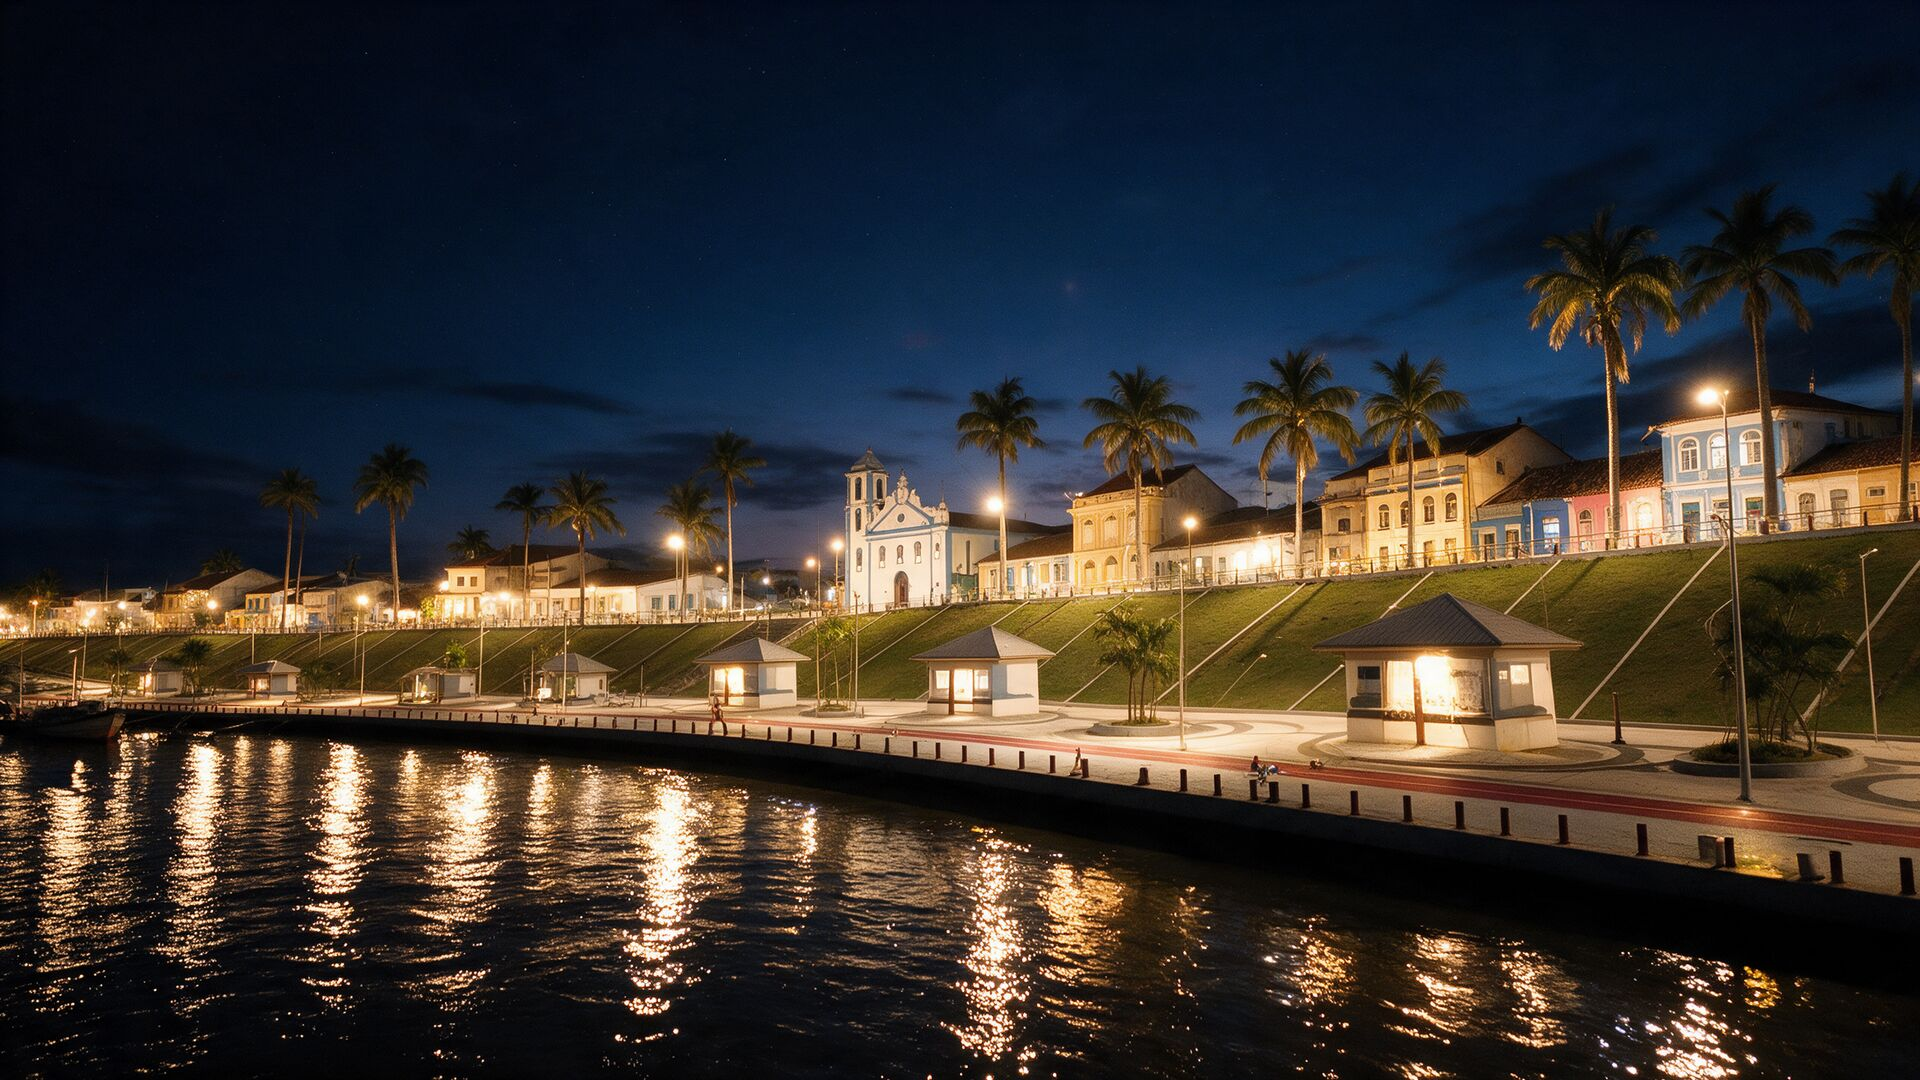
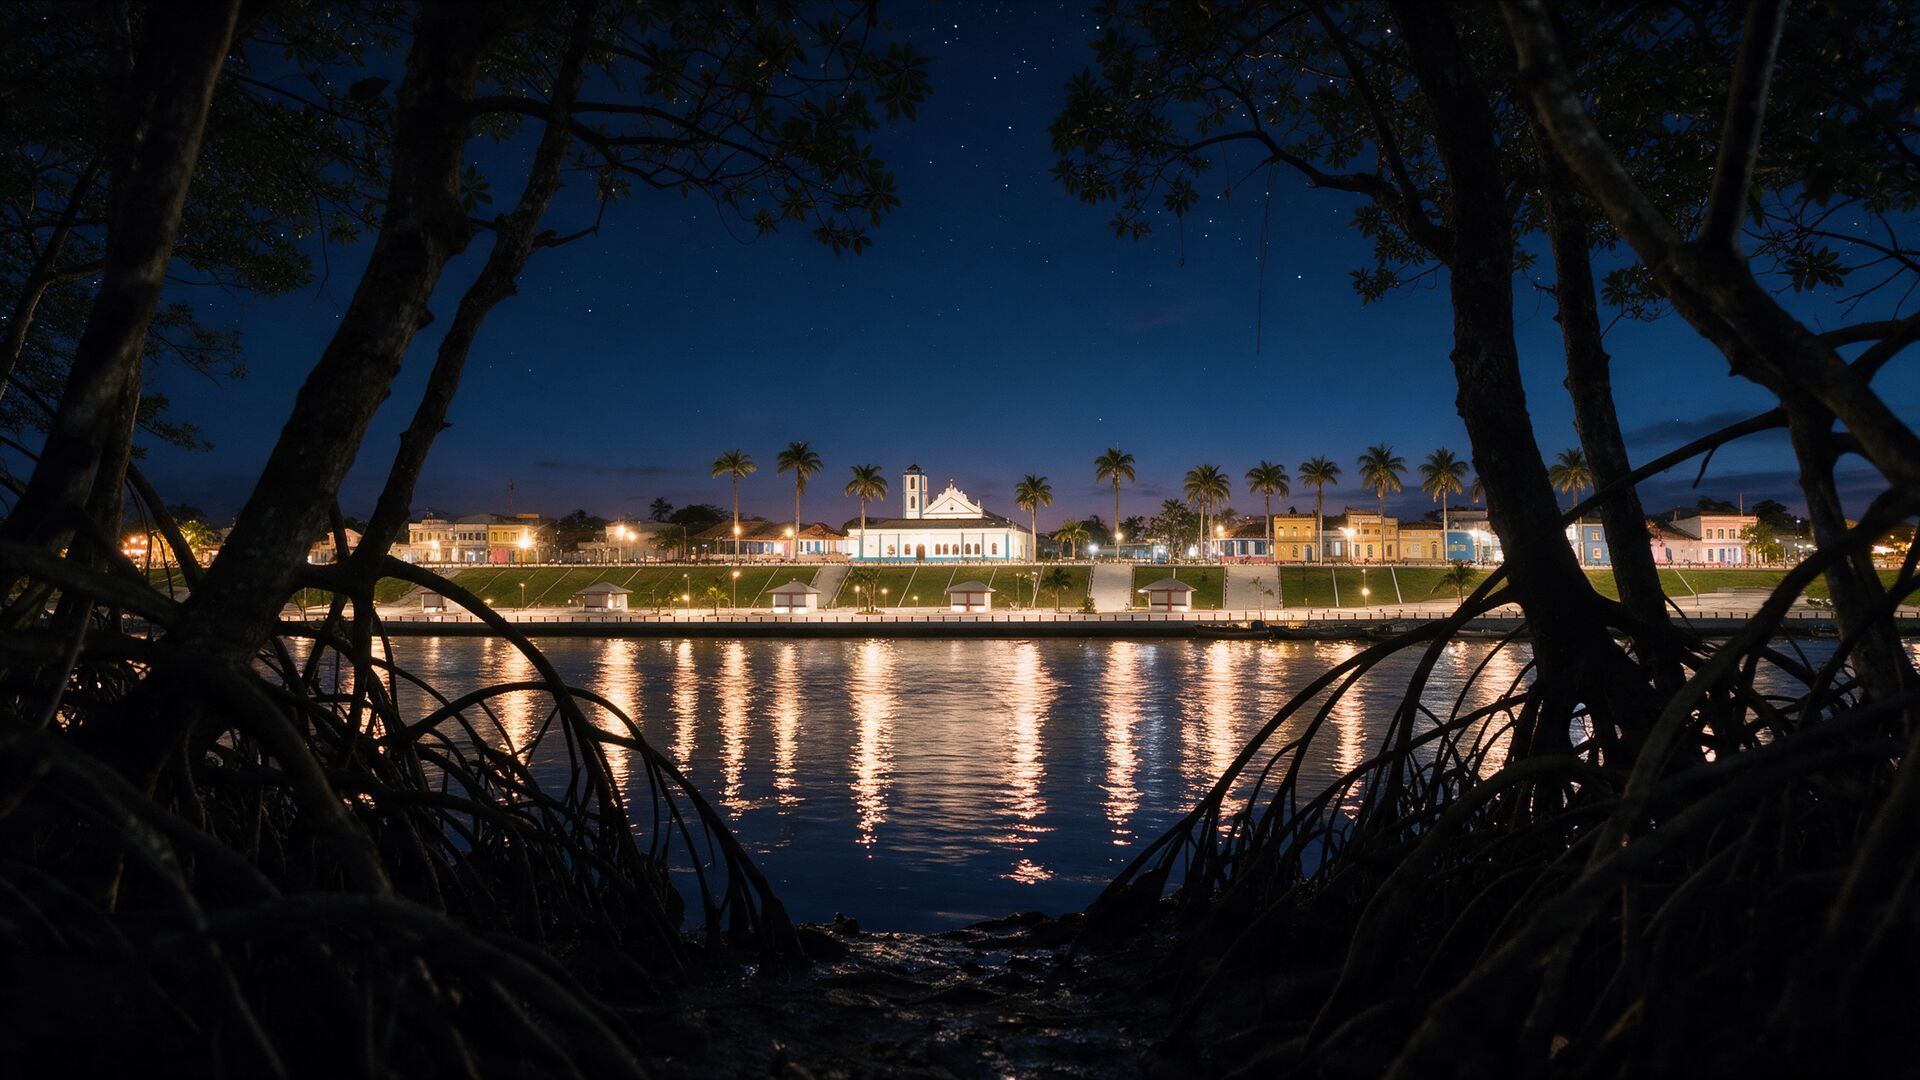
Imagem do entregável, trajetória nos passos e ícones nos segmentos
Três pedidos, três seções de Bragança.

ESPAÇO PARA A IMAGEM DO ENTREGÁVEL

Cada serviço ganhou um campo `imagem` opcional. Com ela o bloco vira
duas colunas, e a imagem alterna de lado a cada serviço: quatro cartões
empilhados com a foto sempre à direita viram uma coluna monótona e o
olho para de percorrer.

Caixa de proporção fixa 4:3 com object-cover e âncora no topo. Assim
qualquer arquivo que entrar fica do mesmo tamanho dos outros, e uma
imagem fora de formato não desalinha a fileira. O que importa deve estar
na metade de cima, que é o que sobrevive ao recorte.

Sem imagem o bloco fica como era, em largura inteira, sem moldura vazia
esperando arquivo. Hoje só o bloco de sites tem: aponta para o print da
Torres Contabilidade, que já está no portfólio do site. É exemplo real
do entregável, não ilustração. Faltam três: anúncio no Instagram,
resultado no Google e perfil no Maps.

A TRAJETÓRIA, NO LUGAR DE TRÊS CAIXAS IGUAIS

Eram três cartões chapados, do mesmo peso, com um número pequeno em
cima. Nada dizia que um vem depois do outro: era uma lista que por acaso
estava na horizontal.

Agora a leitura tem direção. Um fio atravessa os três com um marco em
cada, o número virou elemento gráfico grande atrás do título, e o
terceiro passo, que é o resultado, ganhou a borda magenta e a linha "e a
decisão é sua". Horizontal no computador, vertical no telefone.

ÍCONES NOS SEIS SEGMENTOS

A grade era seis blocos de texto do mesmo peso, e quem procurava
[…]

diff --git a/src/componentes/local/Blocos.tsx b/src/componentes/local/Blocos.tsx
@@ -2,6 +2,7 @@ import Link from 'next/link';
 import Image from 'next/image';
 import { secao } from '@/componentes/Casca';
 import { LinkWhatsapp } from './LinkWhatsapp';
+import { IconeSegmento } from './IconeSegmento';
 import { BotaoZap } from './BotaoZap';
 import { linkDaUnidade, type Unidade } from '@/conteudo/braganca';
 
@@ -205,8 +206,25 @@ export function ServicosLocal({ u }: { u: Unidade }) {
         </h2>
 
         <div className="mt-12 space-y-5">
-          {u.servicos.map((s) => (
+          {u.servicos.map((s, i) => (
             <article key={s.id} className="revelar cartao p-7 md:p-9">
+              {/*
+                Com imagem, o bloco vira duas colunas. A imagem alterna de
+                lado a cada serviço: quatro cartões iguais empilhados com
+                a foto sempre à direita viram uma coluna monótona, e o
+                olho para de percorrer.
+
+                `lg:` e não `md:`: em tablet as duas colunas deixariam a
+                lista de entregas com quatro palavras por linha.
+              */}
+              <div
+                className={
+                  s.imagem
+                    ? 'grid items-center gap-8 lg:grid-cols-[1.1fr_0.9fr] lg:gap-12'
+                    : ''
+                }
+              >
+                <div className={s.imagem && i % 2 === 1 ? 'lg:order-2' : ''}>
               <div className="flex flex-wrap items-baseline gap-3">
                 <h3 className="font-display text-xl font-bold tracking-[-0.02em] md:text-2xl">
                   {s.nome}
@@ -224,7 +242,11 @@ export function ServicosLocal({ u }: { u: Unidade }) {
 
               <p className="mt-5 max-w-[62ch] leading-relaxed text-neve">{s.texto}</p>
 
-              <ul className="mt-6 grid gap-2.5 sm:grid-cols-2">
+              <ul
+                className={
+                  'mt-6 grid gap-2.5 ' + (s.imagem ? 'sm:grid-cols-2 lg:grid-cols-1' : 'sm:grid-cols-2')
+                }
+              >
                 {s.entrega.map((e) => (
                   <li key={e} className="flex gap-3 text-sm leading-relaxed text-cinza">
                     <span aria-hidden className="mt-1 flex-none text-magenta-texto">
@@ -239,6 +261,29 @@ export function ServicosLocal({ u }: { u: Unidade }) {
                 <BotaoZap u={u} mensagem={s.mensagem} secao={s.id}>
                   {s.acao}
                 </BotaoZap>
+              </div>
+                </div>
+
+                {/* O exemplo do entregavel. Caixa de proporcao fixa com
+                    `object-cover`: assim qualquer arquivo que entrar fica
+                    do mesmo tamanho dos outros, e uma imagem fora do
+                    formato nao desalinha a fileira inteira.
+
+                    `object-top` porque estes exemplos sao telas, e o que
+                    identifica uma tela mora em cima. */}
+                {s.imagem ? (
+                  <div className={s.imagem && i % 2 === 1 ? 'lg:order-1' : ''}>
+                    <div className="relative aspect-[4/3] w-full overflow-hidden rounded-[var(--raio-p)] border border-fio bg-marinho-fundo">
+                      <Image
+                        src={`/imagens/${s.imagem.arquivo}`}
+                        alt={s.imagem.alt}
+                        fill
+                        sizes="(max-width: 1024px) 92vw, 40vw"
+                        className="object-cover object-top"
+                      />
+                    </div>
+                  </div>
+                ) : null}
               </div>
             </article>
           ))}
@@ -275,16 +320,76 @@ export function PassosLocal({ u }: { u: Unidade }) {
           <span className="text-magenta-texto">é só uma conversa.</span>
         </h2>
 
-        <ol className="mt-12 grid gap-5 md:grid-cols-3">
-          {u.passos.map((p) => (
-            <li key={p.n} className="revelar cartao p-7 md:p-8">
-              <span className="tabular font-mono text-xs text-magenta-texto">{p.n}</span>
-              <h3 className="mt-4 font-display text-lg font-bold tracking-[-0.02em]">
-                {p.titulo}
-              </h3>
-              <p className="mt-3 text-sm leading-relaxed text-cinza">{p.texto}</p>
-            </li>
-          ))}
+        {/*
+          A TRAJETORIA, E NAO TRES CAIXAS IGUAIS.
+
+          Antes eram tres cartoes chapados, do mesmo peso, com um numero
+          pequeno em cima. Nada dizia que um vem depois do outro: era uma
+          lista que por acaso estava na horizontal.
+
+          Agora a leitura tem direcao. Um fio atravessa os tres com um
+          marco em cada, o numero virou elemento grafico grande atras do
+          titulo, e o ultimo passo, que e o resultado, recebe a borda
+          magenta. O olho percorre do primeiro ao ultimo sem ninguem
+          precisar escrever "passo 1, passo 2".
+
+          Tudo em CSS. Nenhuma requisicao nova numa pagina que ja carrega
+          uma cena de video.
+        */}
+        <ol className="relative mt-14 grid gap-6 md:grid-cols-3 md:gap-5">
+          {/* O fio da trajetoria. Horizontal no computador, vertical no
+              telefone, onde os cartoes empilham. Fica atras de tudo e
+              nao intercepta toque. */}
+          <span
+            aria-hidden
+            className="pointer-events-none absolute left-[27px] top-4 -z-10 w-px bg-[linear-gradient(180deg,transparent,var(--magenta)_18%,var(--magenta)_82%,transparent)] opacity-40 md:left-0 md:right-0 md:top-[27px] md:h-px md:w-auto md:bg-[linear-gradient(90deg,transparent,var(--magenta)_18%,var(--magenta)_82%,transparent)]"
+            style={{ bottom: '1rem' }}
+          />
+
+          {u.passos.map((p, i) => {
+            const ultimo = i === u.passos.length - 1;
+            return (
+              <li
+                key={p.n}
+                className={
+                  'revelar cartao relative overflow-hidden p-7 pt-10 transition-all duration-500 md:p-8 md:pt-11 ' +
+                  'hover:-translate-y-1 ' +
+                  (ultimo ? 'border-magenta/45' : 'hover:border-magenta/30')
+                }
+              >
+                {/* O numero grande, atras do texto. E o que da escala e
+                    ritmo a fileira sem ocupar espaco de leitura. */}
+                <span
+                  aria-hidden
+                  className="pointer-events-none absolute -right-2 -top-4 font-display text-[5.5rem] font-extrabold leading-none tracking-[-0.06em] text-branco/[0.05] md:text-[6.5rem]"
+                >
+                  {p.n}
+                </span>
+
+                {/* O marco sobre o fio. */}
+                <span
+                  aria-hidden
+                  className={
+                    'absolute left-7 top-6 h-3 w-3 rounded-full md:left-8 ' +
+                    (ultimo
+                      ? 'bg-magenta shadow-[0_0_0_5px_rgba(228,21,95,0.18)]'
+                      : 'bg-magenta/60 shadow-[0_0_0_5px_rgba(228,21,95,0.1)]')
+                  }
+                />
+
+                <h3 className="relative mt-3 font-display text-lg font-bold tracking-[-0.02em]">
+                  {p.titulo}
+                </h3>
+                <p className="relative mt-3 text-sm leading-relaxed text-cinza">{p.texto}</p>
+
+                {ultimo ? (
+                  <p className="relative mt-5 font-mono text-[0.66rem] uppercase tracking-[0.16em] text-magenta-texto">
+                    E a decisão é sua
+                  </p>
+                ) : null}
+              </li>
+            );
+          })}
         </ol>
 
         <div className="mt-10">
@@ -322,10 +427,34 @@ export function ParaQuemLocal({ u }: { u: Unidade }) {
           <span className="text-magenta-texto">cliente da região.</span>
         </h2>
 
+        {/*
+          ICONE EM CADA SEGMENTO.
+
+          A grade era seis blocos de texto do mesmo peso, e o olho nao
+          tinha onde pousar: quem procura "pousada" precisava LER os seis
+          titulos para se achar. O icone da o ponto de entrada, e a
+          pessoa reconhece o proprio negocio antes de ler a palavra.
+
+          Desenhados em traco, no mesmo peso do fio dos cards, e inline:
+          seis arquivos de poucas centenas de bytes custariam seis
+          requisicoes numa pagina que ja carrega uma cena de video.
+
+          `group` no bloco para o icone acender junto no hover, que e o
+          que amarra o desenho ao cartao em vez de deixa-lo colado.
+        */}
         <dl className="mt-12 grid gap-px overflow-hidden rounded-[var(--raio)] border border-fio bg-[var(--fio)] sm:grid-cols-2 lg:grid-cols-3">
           {u.paraQuem.map((g) => (
-            <div key={g.grupo} className="bg-marinho-fundo px-7 py-7">
-              <dt className="font-display text-lg font-bold tracking-[-0.02em]">{g.grupo}</dt>
+            <div
+              key={g.grupo}
+              className="group bg-marinho-fundo px-7 py-7 transition-colors duration-500 hover:bg-marinho-alto/40"
+            >
+              <span
+                aria-hidden
+                className="flex h-11 w-11 items-center justify-center rounded-full border border-fio text-magenta-texto transition-colors duration-500 group-hover:border-magenta/50 group-hover:bg-magenta/10"
+              >
+                <IconeSegmento grupo={g.grupo} className="h-5 w-5" />
+              </span>
+              <dt className="mt-5 font-display text-lg font-bold tracking-[-0.02em]">{g.grupo}</dt>
               <dd className="mt-2.5 text-sm leading-relaxed text-cinza">{g.exemplos}</dd>
             </div>
           ))}

diff --git a/src/componentes/local/IconeSegmento.tsx b/src/componentes/local/IconeSegmento.tsx
@@ -1,0 +1,87 @@
+/**
+ * Ícones dos segmentos atendidos pela unidade local.
+ *
+ * Mesmo desenho dos ícones das frentes: traço geométrico de 1.5px, sem
+ * preenchimento, no peso do fio que contorna os cards. É o que faz o
+ * ícone parecer parte do desenho em vez de um adesivo colado por cima.
+ *
+ * `currentColor` de propósito: o ícone acompanha a cor do bloco no
+ * hover sem uma linha de CSS a mais.
+ *
+ * Inline, e não arquivo: são seis desenhos de poucas centenas de bytes
+ * numa página que já carrega uma cena de vídeo. Seis requisições a mais
+ * custariam mais que o desenho inteiro.
+ */
+const tracos: Record<string, React.ReactNode> = {
+  /* Comércio: a sacola, que é o gesto de comprar na rua. */
+  comercio: (
+    <>
+      <path d="M4.5 8h15l-1.2 11.2a2 2 0 0 1-2 1.8H7.7a2 2 0 0 1-2-1.8L4.5 8Z" />
+      <path d="M8.75 8V6.25a3.25 3.25 0 0 1 6.5 0V8" />
+    </>
+  ),
+  /* Saúde: a cruz dentro do escudo do cuidado. */
+  saude: (
+    <>
+      <path d="M12 3.2 20 6v5.4c0 4.4-3.2 7.7-8 9.4-4.8-1.7-8-5-8-9.4V6l8-2.8Z" />
+      <path d="M12 9v6M9 12h6" />
+    </>
+  ),
+  /* Alimentação: talher, o símbolo que ninguém precisa decifrar. */
+  alimentacao: (
+    <>
+      <path d="M7 3v7a2.5 2.5 0 0 0 5 0V3" />
+      <path d="M9.5 10v11" />
+      <path d="M17 3c-1.6 1.2-2.5 3-2.5 5.2 0 1.6.9 2.6 2.5 2.8V21" />
+    </>
+  ),
+  /* Turismo: o sol sobre a linha do mar, que aqui é Ajuruteua. */
+  turismo: (
+    <>
+      <circle cx="12" cy="8.5" r="3.5" />
+      <path d="M12 2v1.5M12 13.5V15M18.5 8.5H17M7 8.5H5.5M16.6 4.4l-1 1M8.4 12.6l-1 1M16.6 12.6l-1-1M8.4 4.4l-1-1" />
+      <path d="M3 19h4.5c1 0 1.4-1 2.5-1s1.5 1 2.5 1 1.4-1 2.5-1 1.5 1 2.5 1H21" />
+    </>
+  ),
+  /* Serviços: a chave de boca, o ofício que conserta. */
+  servicos: (
+    <>
+      <path d="M15.6 4.4a4.6 4.6 0 0 0-6 5.9L4 15.9a2 2 0 0 0 0 2.8l1.3 1.3a2 2 0 0 0 2.8 0l5.6-5.6a4.6 4.6 0 0 0 5.9-6l-2.7 2.7-2.6-.7-.7-2.6 2.7-2.7Z" />
+    </>
+  ),
+  /* Escritórios: a pasta com o documento, o trabalho de mesa. */
+  escritorios: (
+    <>
+      <rect x="4" y="3.5" width="16" height="17" rx="2" />
+      <path d="M8.5 8h7M8.5 12h7M8.5 16h4" />
+    </>
+  ),
+};
+
+/** Normaliza "Alimentação" para "alimentacao", que é a chave do desenho. */
+export const chaveDoSegmento = (nome: string) =>
+  nome
+    .toLowerCase()
+    .normalize('NFD')
+    .replace(/[̀-ͯ]/g, '')
+    .replace(/[^a-z]/g, '');
+
+export function IconeSegmento({ grupo, className = '' }: { grupo: string; className?: string }) {
+  const traco = tracos[chaveDoSegmento(grupo)];
+  if (!traco) return null;
+
+  return (
+    <svg
+      viewBox="0 0 24 24"
+      aria-hidden
+      className={className}
+      fill="none"
+      stroke="currentColor"
+      strokeWidth="1.5"
+      strokeLinecap="round"
+      strokeLinejoin="round"
+    >
+      {traco}
+    </svg>
+  );
+}

diff --git a/src/conteudo/braganca.ts b/src/conteudo/braganca.ts
@@ -44,6 +44,17 @@ export type ServicoLocal = {
   /** Duas ou três frases: o que é, para quem serve, o que a pessoa recebe. */
   texto: string;
   entrega: string[];
+  /**
+   * A imagem que mostra o entregavel: o anuncio no feed, o resultado no
+   * Google, a tela do site, o perfil no Maps.
+   *
+   * Opcional. Sem ela o bloco fica como era, em largura inteira, e nao
+   * abre moldura vazia esperando arquivo.
+   *
+   * Formato: 4:3, algo como 1200x900. A caixa recorta pelo centro e
+   * ancora no topo, entao o que importa deve estar na metade de cima.
+   */
+  imagem?: { arquivo: string; alt: string };
   /** Texto do botão, sempre no benefício. */
   acao: string;
   /** Mensagem que abre no WhatsApp a partir deste bloco. */
@@ -197,6 +208,13 @@ export const braganca: Unidade = {
         'Botão de WhatsApp em toda a página',
         'Publicação, domínio e o básico para o Google encontrar',
       ],
+      /* Exemplo real, e nao ilustracao: e um site que saiu daqui e que
+         ja esta no portfolio do proprio site. Os outros tres blocos
+         esperam arquivo. */
+      imagem: {
+        arquivo: 'sites/torres-contabilidade.jpg',
+        alt: 'Site da Torres Contabilidade, criado pela Psy Comunic, aberto no topo da página inicial',
+      },
       acao: 'Quero um site para minha empresa',
       mensagem: 'Olá! Quero saber sobre criação de site para minha empresa em Bragança.',
     },
